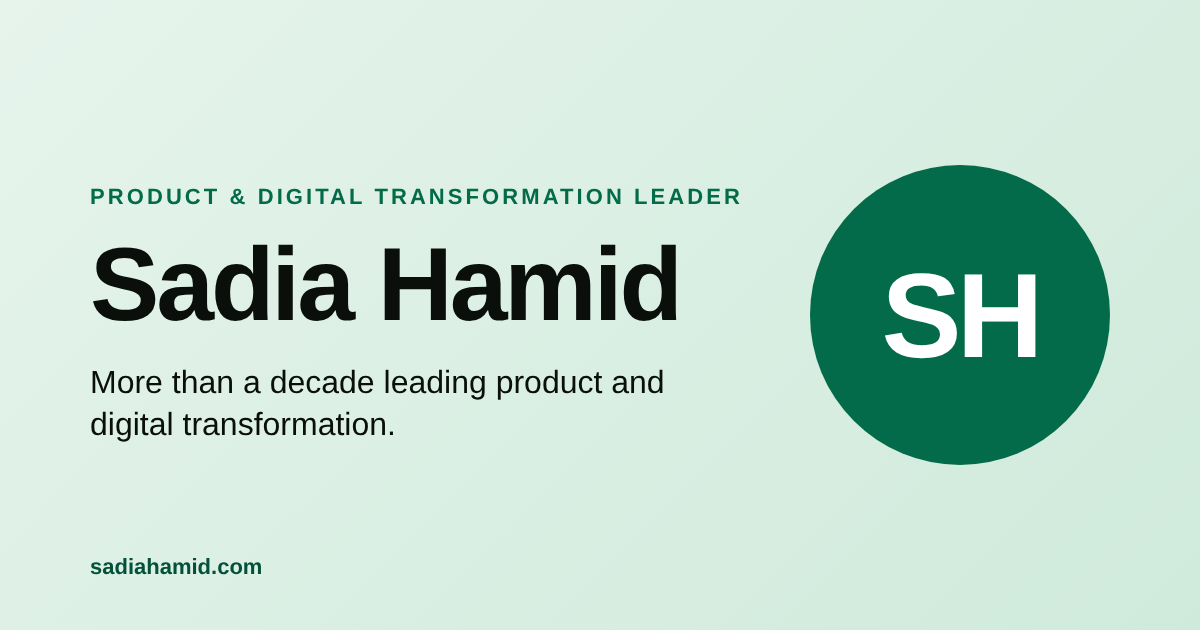
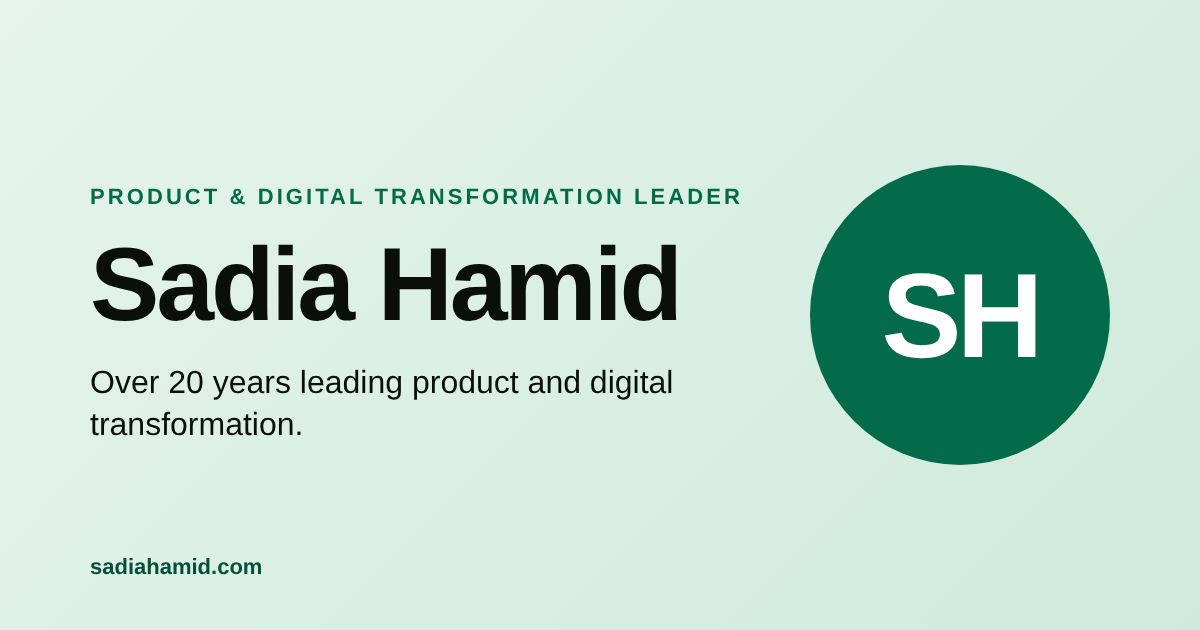
Rebuild Career page from CV: dates, titles, progression and results
Claude-Session: https://claude.ai/code/session_01SP1J8w2phcnedwb4eSFaeV

Changed region(s): [[0.0617, 0.573, 0.555, 0.6333], [0.0617, 0.6635, 0.3392, 0.6937]]

diff --git a/experience.html b/experience.html
@@ -4,14 +4,14 @@
 <meta charset="utf-8">
 <meta name="viewport" content="width=device-width, initial-scale=1, viewport-fit=cover">
 <title>Career · Sadia Hamid</title>
-<meta name="description" content="Sadia Hamid's leadership record: founding Skaadi Ltd, AI products at Keystone Education Group, and digital transformation for nine million customers at du.">
+<meta name="description" content="Sadia Hamid's leadership record: founding Skaadi Ltd, growing educations.com at Keystone Education Group, and digital transformation for nine million customers at du.">
 <link rel="canonical" href="https://sadiahamid.com/experience.html">
 <link rel="icon" href="/favicon.svg" type="image/svg+xml">
 <meta name="theme-color" content="#046B4A">
 <meta property="og:type" content="profile">
 <meta property="og:url" content="https://sadiahamid.com/experience.html">
 <meta property="og:title" content="Career · Sadia Hamid">
-<meta property="og:description" content="Sadia Hamid's leadership record: founding Skaadi Ltd, AI products at Keystone Education Group, and digital transformation for nine million customers at du.">
+<meta property="og:description" content="Sadia Hamid's leadership record: founding Skaadi Ltd, growing educations.com at Keystone Education Group, and digital transformation for nine million customers at du.">
 <meta property="og:image" content="https://sadiahamid.com/og.png">
 <meta property="og:image:width" content="1200">
 <meta property="og:image:height" content="630">
@@ -21,7 +21,7 @@
 <link rel="preconnect" href="https://fonts.googleapis.com">
 <link rel="preconnect" href="https://fonts.gstatic.com" crossorigin>
 <link rel="stylesheet" href="https://fonts.googleapis.com/css2?family=Manrope:wght@400;500;600;700&display=swap">
-<link rel="stylesheet" href="/styles.css?v=5">
+<link rel="stylesheet" href="/styles.css?v=7">
 </head>
 <body>
 <a class="skip" href="#main">Skip to content</a>
@@ -44,61 +44,82 @@
     <div class="wrap hero-grid">
       <div class="stack">
         <h1>A record of leading change at scale</h1>
-        <p class="lede">Modernising a national telecom operator, bringing AI into an international education business, and launching a company of my own.</p>
+        <p class="lede">From early roles in sales to transforming a national telecom operator, reviving an international lead marketplace and founding a company of my own.</p>
       </div>
       <div class="hero-photo"><div class="ph" style="aspect-ratio:4/5" role="img" aria-label="Photo coming soon"><span class="ph-tag">Photo placeholder</span><b>Sadia at work photo here</b><span>E.g. at a desk, laptop or whiteboard · portrait, 4:5</span></div></div>
     </div>
   </section>
   <section class="chapter">
     <div class="wrap chapter-grid">
-      <div class="chapter-meta"><span class="era">2026 – present</span><span class="org">Skaadi Ltd</span><span class="title">Founder &amp; Director</span></div>
+      <div class="chapter-meta"><span class="era">Mar 2026 – present</span><span class="org">Skaadi Ltd</span><span class="title">Founder &amp; Director · Sheffield</span></div>
       <div class="chapter-body">
         <h2>Took a new AI company from idea to paying customers</h2>
-        <div class="prose"><p>As sole founder I own every decision, from product vision and architecture to pricing and launch. Our first product, WizardTeacher, offers AI exam preparation for IELTS, TOEFL, PTE, SAT and ACT.</p><p>I assembled a production platform from over a dozen services, including Claude, Stripe and Supabase, with all student data hosted in the UK.</p></div>
-        <div class="figs"><div class="fig"><b>Live</b><span>Trading since October 2026</span></div><div class="fig"><b>12+</b><span>Services integrated into one product</span></div><div class="fig"><b>UK</b><span>Data residency for every learner</span></div></div>
+        <div class="prose"><p>As sole founder I own every decision, from product vision and architecture to pricing and launch. Our first product, WizardTeacher, offers AI exam preparation for IELTS, TOEFL, PTE, SAT and ACT.</p><p>I designed and built the platform hands-on with Claude, Stripe, Supabase and PostHog, keeping all student data hosted in the UK.</p></div>
+        <div class="figs"><div class="fig"><b>Live</b><span>Trading since October 2026</span></div><div class="fig"><b>13</b><span>API integrations in one product</span></div><div class="fig"><b>UK</b><span>Data residency for every learner</span></div></div>
         <ul class="scope" aria-label="Leadership scope"><li>Company direction</li><li>Product strategy</li><li>AI architecture</li><li>Pricing</li><li>Launch</li></ul>
       </div>
     </div>
   </section>
   <section class="chapter">
     <div class="wrap chapter-grid">
-      <div class="chapter-meta"><span class="era">Until 2026</span><span class="org">Keystone Education Group</span><span class="title">Product leadership</span></div>
+      <div class="chapter-meta"><span class="era">Nov 2025 – Aug 2026</span><span class="org">Keystone Education Group</span><span class="title">Senior PM, Program &amp; Institution Publishing</span></div>
       <div class="chapter-body">
-        <h2>Brought AI products into production for a global education marketplace</h2>
-        <div class="prose"><p>I led AI initiatives from first concept through to live release, working across engineering, data and commercial teams.</p><p>Where manual work slowed teams down, I removed it myself: a Python data tool I wrote turned an hour of repetitive effort into ten minutes.</p></div>
-        <div class="figs"><div class="fig"><b>1 hr → 10 min</b><span>Manual task time after my automation</span></div></div>
-        <ul class="scope" aria-label="Leadership scope"><li>AI product delivery</li><li>Cross-functional teams</li><li>Automation</li></ul>
+        <h2>Reversed a 41.8% lead decline for a global student marketplace</h2>
+        <div class="prose"><p>educations.com earns its revenue from qualified student leads. When leads were falling year on year, I diagnosed the causes myself and built the recovery plan across conversion, AI content and SEO.</p><p>In the same period I shipped three AI products to production in seven months, set up the company’s first data governance framework on GCP and BigQuery, and wrote a Python and Claude tool that cut a 60-minute task to under ten.</p></div>
+        <div class="figs"><div class="fig"><b>+21%</b><span>Traffic within three weeks of the taxonomy fix</span></div><div class="fig"><b>+15%</b><span>Qualified leads</span></div><div class="fig"><b>2.5×</b><span>Publishing output with no extra headcount</span></div><div class="fig"><b>130</b><span>Categories, down from 1,541, across 28 locales</span></div></div>
+        <ul class="scope" aria-label="Leadership scope"><li>Marketplace growth</li><li>Conversion and SEO</li><li>AI delivery</li><li>Data governance</li><li>Engineering, Design and Localisation</li></ul>
       </div>
     </div>
   </section>
   <section class="chapter">
     <div class="wrap chapter-grid">
-      <div class="chapter-meta"><span class="era">7+ years</span><span class="org">du, Dubai</span><span class="title">Digital programmes</span></div>
+      <div class="chapter-meta"><span class="era">Dec 2016 – Oct 2025</span><span class="org">du, UAE</span><ol class="ladder"><li><b>Senior Product Manager</b><span>2024 – 2025</span></li><li><b>Product Manager</b><span>2023 – 2024</span></li><li><b>Product Marketing Manager</b><span>2016 – 2023</span></li></ol></div>
       <div class="chapter-body">
         <h2>Directed digital transformation for nine million customers</h2>
-        <div class="prose"><p>At one of the UAE’s leading telecom and digital financial services providers, I led the programmes that modernised how customers and products are served.</p><p>I owned customer value management strategy and ran the data migration and architecture work behind data-driven customer experiences.</p></div>
-        <div class="figs"><div class="fig"><b>9M</b><span>Customers moved onto new digital platforms</span></div><div class="fig"><b>10,000+</b><span>Products re-platformed</span></div><div class="fig"><b>Live ML</b><span>Personalisation models in production</span></div></div>
-        <ul class="scope" aria-label="Leadership scope"><li>Programme strategy</li><li>CVM</li><li>Data architecture</li><li>Machine learning</li><li>Executive stakeholders</li></ul>
+        <div class="prose"><p>Over nearly nine years I rose from product marketing to running the operator’s transformation. I owned the strategy and roadmap for re-platforming its product catalogue, with ML-driven personalisation, churn prediction and an LLM-powered onboarding assistant.</p><p>I then led the full data migration across its core billing and service platforms, coordinating more than 12 vendors through cutover.</p></div>
+        <div class="figs"><div class="fig"><b>9M</b><span>B2B and B2C subscribers</span></div><div class="fig"><b>10,000+</b><span>Products re-platformed</span></div><div class="fig"><b>+45%</b><span>Digital sales growth</span></div><div class="fig"><b>98%</b><span>Accuracy in mock migrations and UAT</span></div></div>
+        <ul class="scope" aria-label="Leadership scope"><li>Programme strategy</li><li>P&amp;L and pricing</li><li>Data migration</li><li>Machine learning</li><li>Vendor management</li></ul>
       </div>
     </div>
   </section>
   <section class="chapter">
     <div class="wrap chapter-grid">
-      <div class="chapter-meta"><span class="era">Earlier career</span><span class="org">IRCA Global</span><span class="title">Foundations</span></div>
+      <div class="chapter-meta"><span class="era">Feb 2008 – Nov 2016</span><span class="org">IRCA Global</span><span class="title">Product Marketing Manager · MENA</span></div>
       <div class="chapter-body">
-        <h2>Where the grounding was laid</h2>
-        <div class="prose"><p>The early roles that shaped how I work.</p></div>
-        
-        <ul class="scope" aria-label="Leadership scope"></ul>
+        <h2>Took a regional business into new markets</h2>
+        <div class="prose"><p>I led market expansion across the Middle East and North Africa, opening Dubai and Oman, and directed ISO-certified projects with a technical team of eleven.</p></div>
+        <div class="figs"><div class="fig"><b>+30%</b><span>Brand visibility</span></div><div class="fig"><b>$1M+</b><span>Projects directed</span></div></div>
+        <ul class="scope" aria-label="Leadership scope"><li>Market entry</li><li>Multi-channel campaigns</li><li>Team management</li></ul>
       </div>
     </div>
   </section>
-  <section class="section tint">
-    <div class="wrap split">
-      <div class="stack"><p class="eyebrow">Education</p><h2>Executive MBA, with Merit</h2></div>
-      <div class="card">
-        <h3>Bayes Business School, City, University of London</h3>
-        <p>Awarded May 2024. Studied innovation in markets from Silicon Valley to Nairobi and Vietnam.</p>
+  <section class="chapter">
+    <div class="wrap chapter-grid">
+      <div class="chapter-meta"><span class="era">1999 – 2008</span><span class="org">Where it began</span></div>
+      <div class="chapter-body">
+        <h2>A commercial start</h2>
+        <div class="prose"><p>I began in sales and finance, then moved into marketing at Samsung, CTS Arabia and W.J. Towell. That grounding is why I read acquisition and conversion as closely as the systems behind them.</p></div>
+        
+        
+      </div>
+    </div>
+  </section>
+  <section class="section">
+    <div class="wrap">
+      <div class="section-head"><p class="eyebrow">Education and credentials</p><h2>Executive MBA, with Merit</h2></div>
+      <div class="cards">
+        <div class="card">
+          <h3>Bayes Business School, City, University of London</h3>
+          <p>Digital Transformation and Corporate Strategy, 2022 – 2024. Studied innovation in markets from Silicon Valley to Nairobi and Vietnam.</p>
+        </div>
+        <div class="card">
+          <h3>Certifications</h3>
+          <p>Harvard ManageMentor (40+ courses), CCNA, CompTIA Network+, Fortinet NSE 1–3.</p>
+        </div>
+        <div class="card">
+          <h3>Toolkit</h3>
+          <p>Python, SQL, Claude API, GCP BigQuery, Azure, AWS, GA4, Salesforce, Jira, Figma. SAFe, Scrum and Kanban.</p>
+        </div>
       </div>
     </div>
   </section>

diff --git a/index.html b/index.html
@@ -4,14 +4,14 @@
 <meta charset="utf-8">
 <meta name="viewport" content="width=device-width, initial-scale=1, viewport-fit=cover">
 <title>Sadia Hamid · Product & Digital Transformation Leader</title>
-<meta name="description" content="Sadia Hamid is a product and digital transformation leader with more than a decade of experience across telecoms, ecommerce and education technology, and the founder of Skaadi Ltd.">
+<meta name="description" content="Sadia Hamid is a senior product and digital transformation leader with over 20 years of experience, and the founder of Skaadi Ltd.">
 <link rel="canonical" href="https://sadiahamid.com/">
 <link rel="icon" href="/favicon.svg" type="image/svg+xml">
 <meta name="theme-color" content="#046B4A">
 <meta property="og:type" content="profile">
 <meta property="og:url" content="https://sadiahamid.com/">
 <meta property="og:title" content="Sadia Hamid · Product & Digital Transformation Leader">
-<meta property="og:description" content="Sadia Hamid is a product and digital transformation leader with more than a decade of experience across telecoms, ecommerce and education technology, and the founder of Skaadi Ltd.">
+<meta property="og:description" content="Sadia Hamid is a senior product and digital transformation leader with over 20 years of experience, and the founder of Skaadi Ltd.">
 <meta property="og:image" content="https://sadiahamid.com/og.png">
 <meta property="og:image:width" content="1200">
 <meta property="og:image:height" content="630">
@@ -21,7 +21,7 @@
 <link rel="preconnect" href="https://fonts.googleapis.com">
 <link rel="preconnect" href="https://fonts.gstatic.com" crossorigin>
 <link rel="stylesheet" href="https://fonts.googleapis.com/css2?family=Manrope:wght@400;500;600;700&display=swap">
-<link rel="stylesheet" href="/styles.css?v=5">
+<link rel="stylesheet" href="/styles.css?v=7">
 </head>
 <body>
 <a class="skip" href="#main">Skip to content</a>
@@ -46,7 +46,7 @@
         <span class="avail">Open to contract Senior and Lead Product Manager roles</span>
         <p class="eyebrow">Product &amp; Digital Transformation Leader</p>
         <h1>Sadia Hamid. <span>Building products that change how organisations work.</span></h1>
-        <p class="lede">More than a decade leading product across telecoms, ecommerce and education technology, now running her own AI company.</p>
+        <p class="lede">Over 20 years across telecoms, marketplaces, FMCG and education technology, now running her own AI company.</p>
         <div class="btn-row">
           <a class="btn" href="/experience.html">See her career</a>
           <a class="btn ghost" href="/services.html">Work with Sadia</a>

diff --git a/styles.css b/styles.css
@@ -228,3 +228,11 @@ a.card .go{margin-top:auto;padding-top:.5rem;font-size:var(--fs-sm);font-weight:
 .scope{display:flex;flex-wrap:wrap;gap:.5rem;list-style:none;margin:0;padding:0}
 .scope li{font-size:var(--fs-xs);font-weight:700;letter-spacing:.04em;color:var(--emerald-deep);background:var(--white);border:1px solid var(--mint-300);padding:.35rem .8rem;border-radius:999px}
 .chapter:nth-of-type(even) .fig,.chapter:nth-of-type(even) .scope li{background:var(--white)}
+.ladder{list-style:none;margin:.75rem 0 0;padding:0 0 0 1rem;border-left:2px solid var(--mint-300);display:flex;flex-direction:column;gap:.8rem}
+.ladder li{display:flex;flex-direction:column;gap:.1rem;position:relative}
+.ladder li::before{content:"";position:absolute;left:calc(-1rem - 6px);top:.45rem;width:10px;height:10px;border-radius:50%;background:var(--emerald)}
+.ladder b{font-size:var(--fs-sm)}
+.ladder span{font-size:var(--fs-xs);color:var(--grey)}
+.figs{grid-template-columns:repeat(auto-fit,minmax(min(100%,9rem),1fr))}
+.fig b{font-size:clamp(1.4rem,2.4vw,1.85rem);white-space:nowrap}
+@media (max-width:560px){.figs{grid-template-columns:repeat(2,minmax(0,1fr))}}

diff --git a/coaching.html b/coaching.html
@@ -21,7 +21,7 @@
 <link rel="preconnect" href="https://fonts.googleapis.com">
 <link rel="preconnect" href="https://fonts.gstatic.com" crossorigin>
 <link rel="stylesheet" href="https://fonts.googleapis.com/css2?family=Manrope:wght@400;500;600;700&display=swap">
-<link rel="stylesheet" href="/styles.css?v=5">
+<link rel="stylesheet" href="/styles.css?v=7">
 </head>
 <body>
 <a class="skip" href="#main">Skip to content</a>

diff --git a/press.html b/press.html
@@ -21,7 +21,7 @@
 <link rel="preconnect" href="https://fonts.googleapis.com">
 <link rel="preconnect" href="https://fonts.gstatic.com" crossorigin>
 <link rel="stylesheet" href="https://fonts.googleapis.com/css2?family=Manrope:wght@400;500;600;700&display=swap">
-<link rel="stylesheet" href="/styles.css?v=5">
+<link rel="stylesheet" href="/styles.css?v=7">
 </head>
 <body>
 <a class="skip" href="#main">Skip to content</a>

diff --git a/services.html b/services.html
@@ -21,7 +21,7 @@
 <link rel="preconnect" href="https://fonts.googleapis.com">
 <link rel="preconnect" href="https://fonts.gstatic.com" crossorigin>
 <link rel="stylesheet" href="https://fonts.googleapis.com/css2?family=Manrope:wght@400;500;600;700&display=swap">
-<link rel="stylesheet" href="/styles.css?v=5">
+<link rel="stylesheet" href="/styles.css?v=7">
 </head>
 <body>
 <a class="skip" href="#main">Skip to content</a>
